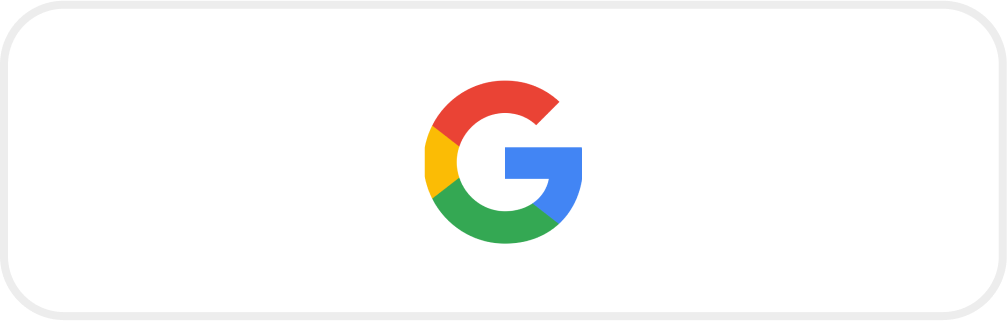
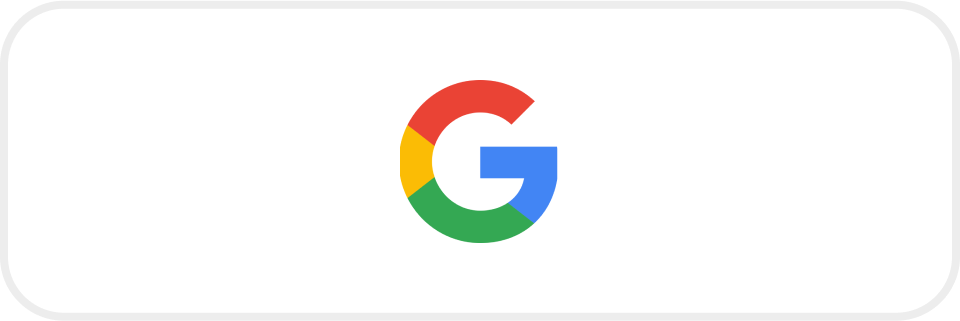
[feat] login form design modify

diff --git a/FrontEnd/src/pages/User/Login.tsx b/FrontEnd/src/pages/User/Login.tsx
@@ -76,52 +76,38 @@ export default function Login() {
   return (
     <FormLayout>
       <div
-        className="flex h-full flex-col justify-around"
+        className="flex items-center h-full flex-col gap-24"
         onKeyDown={handleOnKeyPress}
       >
         <div>
-          <span className="mb-14 block text-4xl font-bold">LOG-IN</span>
-          <span className="block text-sm font-bold">
-            SSAFY STAR를 사용하기 위해 로그인 해 주세요👀
-          </span>
+          <span className="mt-80 mb-40 block text-6xl font-bold text-white">로그인</span>
         </div>
-        <div className=" block font-bold">
+        <div className="w-4/5 block font-bold">
           <Input
             id="loginId"
             type="textfield"
-            label="이메일"
             onChange={onLoginid}
             value={loginid}
-            warning={idWarning}
+            placeholder="이메일"
           />
           <Input
             id="password"
             type="password"
-            label="비밀번호"
             onChange={onPassword}
             value={password}
             warning={passwordWarning}
+            placeholder="비밀번호"
           />
-
-          <div className="flex flex-col py-10 text-right">
-            <LinkButton onClick={() => navigate("/idpwfind")}>
-              로그인이 안 되시나요?
-            </LinkButton>
-          </div>
-          <div className="mt-30 flex h-48 justify-center font-bold">
-            <MidButton value="로그인" onClick={submit} />
-          </div>
         </div>
-
-        <div className="flex flex-col gap-4">
-          <div className="flex flex-col items-center">
+        <div className="justify-center items-center flex flex-col gap-4">
+          <div className="flex flex-row gap-24 items-center">
             <button
               className="flex justify-center"
               onClick={() => goOauth("google")}
             >
               <img
-                className="h-48"
-                src="./background/login_google.png"
+                className="h-72"
+                src="./background/login_google_2.png"
                 alt="google 로그인"
               />
             </button>
@@ -130,14 +116,29 @@ export default function Login() {
               onClick={() => goOauth("kakao")}
             >
               <img
-                className="h-48"
-                src="./background/login_kakao.png"
+                className="h-72"
+                src="./background/login_kakao_2.png"
                 alt="kakao 로그인"
               />
             </button>
           </div>
-          {/* </div> */}
-          <div className="mb-14 py-10 text-right font-bold">
+          <button
+              className="flex justify-center mt-48"
+              onClick={submit}
+            >
+              <img
+                className="h-140"
+                src="./background/next.png"
+                alt="로그인"
+              />
+            </button>
+
+          <div className="flex flex-col py-10 font-bold">
+            <LinkButton onClick={() => navigate("/idpwfind")}>
+              로그인이 안 되시나요?
+            </LinkButton>
+          </div>
+          <div className="mb-14 py-10 font-bold">
             <LinkButton onClick={() => navigate("/signup")}>
               계정 생성하기
             </LinkButton>

diff --git a/FrontEnd/src/components/Input/Input.tsx b/FrontEnd/src/components/Input/Input.tsx
@@ -3,7 +3,7 @@ import { useState } from "react";
 interface props {
   id: string;
   type: string;
-  label: string;
+  label?: string;
   onChange: (params: string) => void;
   warning?: string;
   confirm?: string;
@@ -13,6 +13,7 @@ interface props {
   queryResult?: string[];
   querySelect?: (params: string) => void;
   queryValue?: string;
+  placeholder?: string;
 }
 
 export default function Input({
@@ -28,6 +29,7 @@ export default function Input({
   queryResult,
   querySelect,
   queryValue,
+  placeholder
 }: props) {
   const [inputType, setInputType] = useState(type);
   const convert = () => {
@@ -55,10 +57,11 @@ export default function Input({
         <>
           <input
             ref={inputRef}
-            className="border-b-1 border-gray-500 text-gray-500"
+            className="border-3 rounded-16 text-white border-white my-12 bg-black bg-opacity-70 px-16 py-16 shadow-neon2"
             id={id}
             type={inputType}
             onChange={(e) => onChange(e.target.value)}
+            placeholder={placeholder}
             value={value}
             disabled={disable}
           ></input>

diff --git a/FrontEnd/src/components/Layout/FormLayout.tsx b/FrontEnd/src/components/Layout/FormLayout.tsx
@@ -7,7 +7,7 @@ interface props {
 export default function FormLayout(props: props) {
   return (
     <div className="flex h-screen items-center bg-[url('/public/background/main_background.png')] bg-cover bg-center">
-      <div className="m-auto from-opacity-70 to-opacity-38 relative h-4/5 w-1/3 rounded-lg border-5 border-white bg-gradient-to-b from-black to-darkblue shadow-neon">
+      <div className="m-auto from-opacity-70 to-opacity-38 relative h-4/5 w-1/3 rounded-lg border-5 border-white bg-gradient-to-b from-black to-darkblue2 shadow-neon">
         {props.children}
       </div>
       <HeaderMenu />

diff --git a/FrontEnd/tailwind.config.js b/FrontEnd/tailwind.config.js
@@ -30,6 +30,7 @@ module.exports = {
         black: "#000000",
         white: "#ffffff",
         darkblue: "rgba(0, 21, 134, 0.54)",
+        darkblue2: "rgba(0, 18, 110, 0.6)",
         dblue: "rgba(0, 21, 134, 1)",
         cardTop: "#F4DFA2",
         cardBottom: "#EFF6EE",
@@ -38,6 +39,7 @@ module.exports = {
       },
       boxShadow: {
         neon: "0 0 20px 10px rgba(0,21,134,0.7), inset 0 0 20px 10px rgba(110,181,233,0.5)",
+        neon2: "0 0 20px 10px rgba(0,21,134,0.7)",
         blackcard:
           " 20px 20px 0 0 rgba(0,0,0,0.7), inset 20px 20px 0 0 rgba(0,0,0,0.7), inset",
       },

diff --git a/FrontEnd/src/components/Button/LinkButton.tsx b/FrontEnd/src/components/Button/LinkButton.tsx
@@ -5,7 +5,7 @@ interface props {
 
 export default function LinkButton({ children, onClick }: props) {
   return (
-    <span className="cursor-pointer text-gray-900 " onClick={onClick}>
+    <span className="cursor-pointer text-white " onClick={onClick}>
       {children}
     </span>
   );
